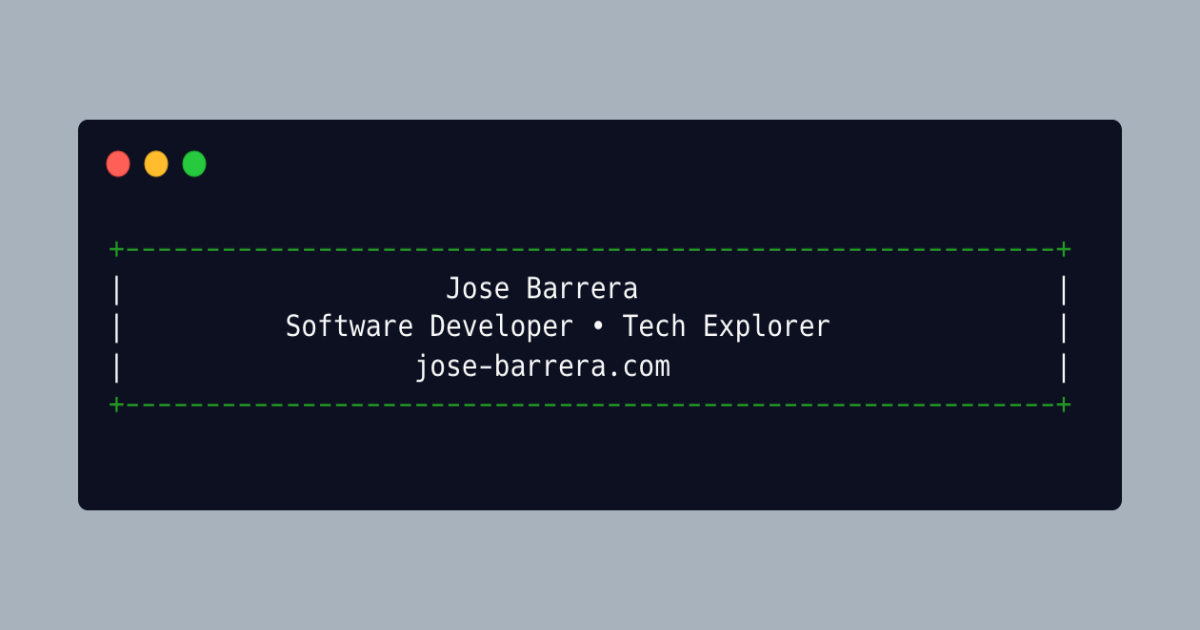
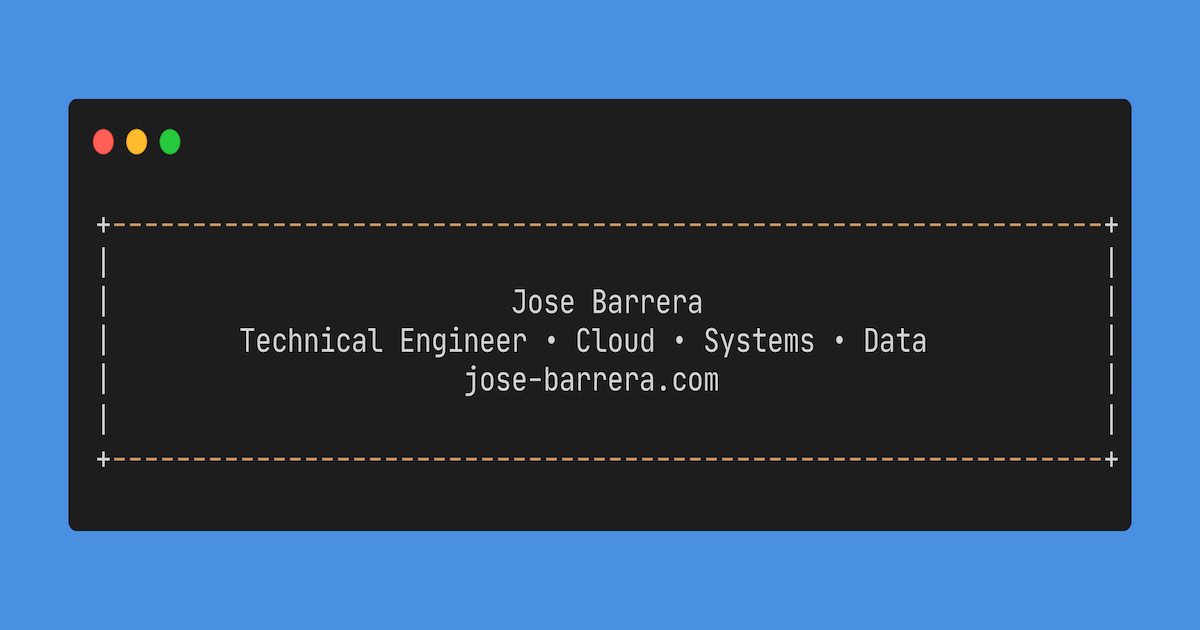
feat: updated meta tags accordingly and added a new preview-card

diff --git a/index.html b/index.html
@@ -4,11 +4,15 @@
         <meta charset="utf-8" />
         <meta name="viewport" content="width=device-width, initial-scale=1.0"/>
 
-        <title>Jose Barrera</title>
+        <!-- Primary SEO -->
+        <title>Jose Barrera | Technical Engineer - Cloud • Systems • Data</title>
+        <link rel="canonical" href="https://jose-barrera.com/">
+        <meta name="description" content="Technical Engineer based in Texas focused on cloud infrastructure, software development, systems engineering, and data. I design infrastructure, automate workflows, and build practical tools with AWS, Proxmox, REST APIs, and DevOps tooling." />
+        <meta name="author" content="Jose Barrera" />
+        <meta name="robots" content="index,follow" />
+        <meta name="theme-color" content="#0b5ed7" />
 
-        <meta name="author" content="Jose Barrera"/>
-        <meta name="description" content="I'm an early-career software developer sharing my projects, experiments, and self-hosting journey. Always learning, always building."/>
-
+        <!-- Styles & Icons -->
         <link rel="stylesheet" href="styles.css"/>
         <link rel="stylesheet" href="https://cdnjs.cloudflare.com/ajax/libs/font-awesome/6.4.0/css/all.min.css">
         <link rel="apple-touch-icon" sizes="180x180" href="/apple-touch-icon.png">
@@ -16,21 +20,24 @@
         <link rel="icon" type="image/png" sizes="16x16" href="/favicon-16x16.png">
         <link rel="manifest" href="/site.webmanifest">
 
-        <!-- OGP tags and twitter tags-->
-        <meta property="og:title" content="Hey, I'm Jose. I build things with code" />
+        <!-- Open Graph (LinkedIn, Facebook, Slack, etc.) -->
         <meta property="og:type" content="website" />
+        <meta property="og:site_name" content="Jose Barrera" />
+        <meta property="og:locale" content="en_US" />
         <meta property="og:url" content="https://jose-barrera.com/" />
-        <meta property="og:description" content="I'm an early-career software developer sharing my projects, experiments, and self-hosting journey. Always learning, always building." />
+        <meta property="og:title" content="Jose Barrera - Technical Engineer" />
+        <meta property="og:description" content="I work where cloud, systems, and data meet. Recent work: AWS, Proxmox, REST APIs, automation, and DevOps tooling." />
         <meta property="og:image" content="https://jose-barrera.com/assets/preview-card.png" />
         <meta property="og:image:width" content="1200" />
         <meta property="og:image:height" content="630" />
+        <meta property="og:image:alt" content="Preview card for Jose Barrera - Technical Engineer" />
 
-        <!-- Twitter specific -->
+        <!-- Twitter Card (nice to have) -->
         <meta name="twitter:card" content="summary_large_image" />
-        <meta name="twitter:title" content="Hey, I'm Jose. I build things with code" />
-        <meta name="twitter:description" content="I'm working on fun, functional tools. From web apps to homelab setups." />
+        <meta name="twitter:title" content="Jose Barrera - Technical Engineer" />
+        <meta name="twitter:description" content="Cloud • Software • Systems • Data. I design infrastructure, automate workflows, and build practical tools." />
         <meta name="twitter:image" content="https://jose-barrera.com/assets/preview-card.png" />
-
+        <meta name="twitter:image:alt" content="Preview card for Jose Barrera - Technical Engineer" />
     </head>
     <body>
         <header id="top">
